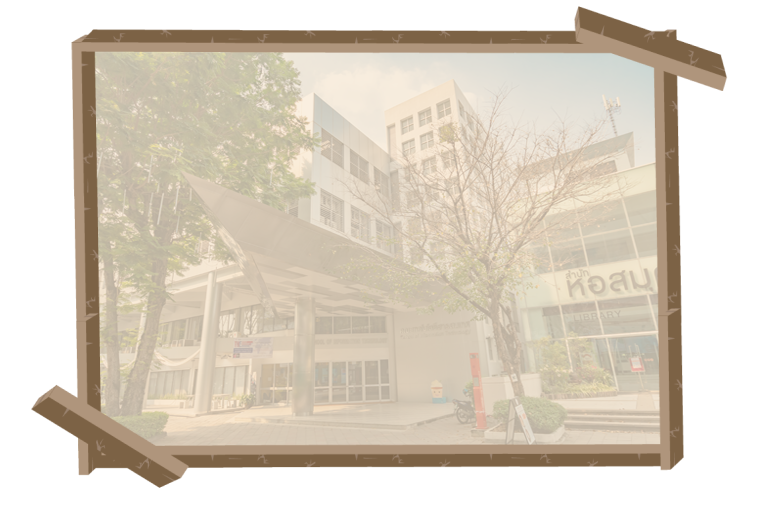
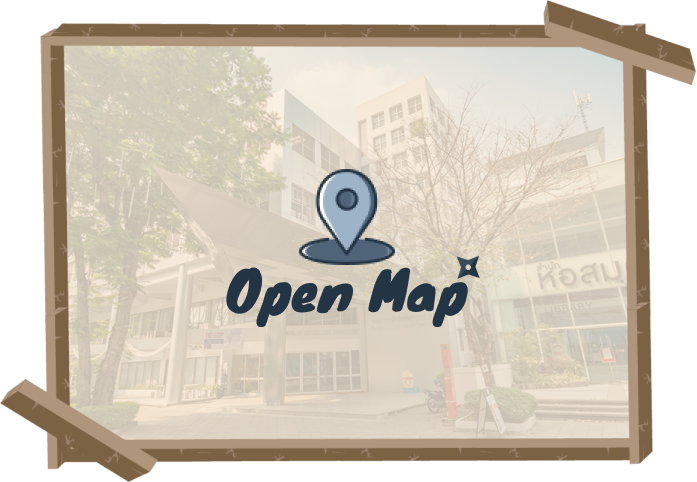
[UPDATE] Map hover

diff --git a/components/Where/index.js b/components/Where/index.js
@@ -13,16 +13,18 @@ const Map = styled.img`
   justify-content: center;
   cursor: pointer;
   filter: drop-shadow( 2px 3px 3px rgba(0,0,0,0.75) );
-  @media (min-width:320px) {
-    width:80%;
-  }
-  @media (min-width:412px) {
-    width:70%;
-  }
-  z-index:9;
 
   &:hover{
+    content: url('../../static/img/map_hover.png');
+
   }
+  @media (min-width:320px) {
+    width:60%;
+  }
+  @media (min-width:412px) {
+    width:50%;
+  }
+  z-index:9;
 `
 
 const WhereText = [
